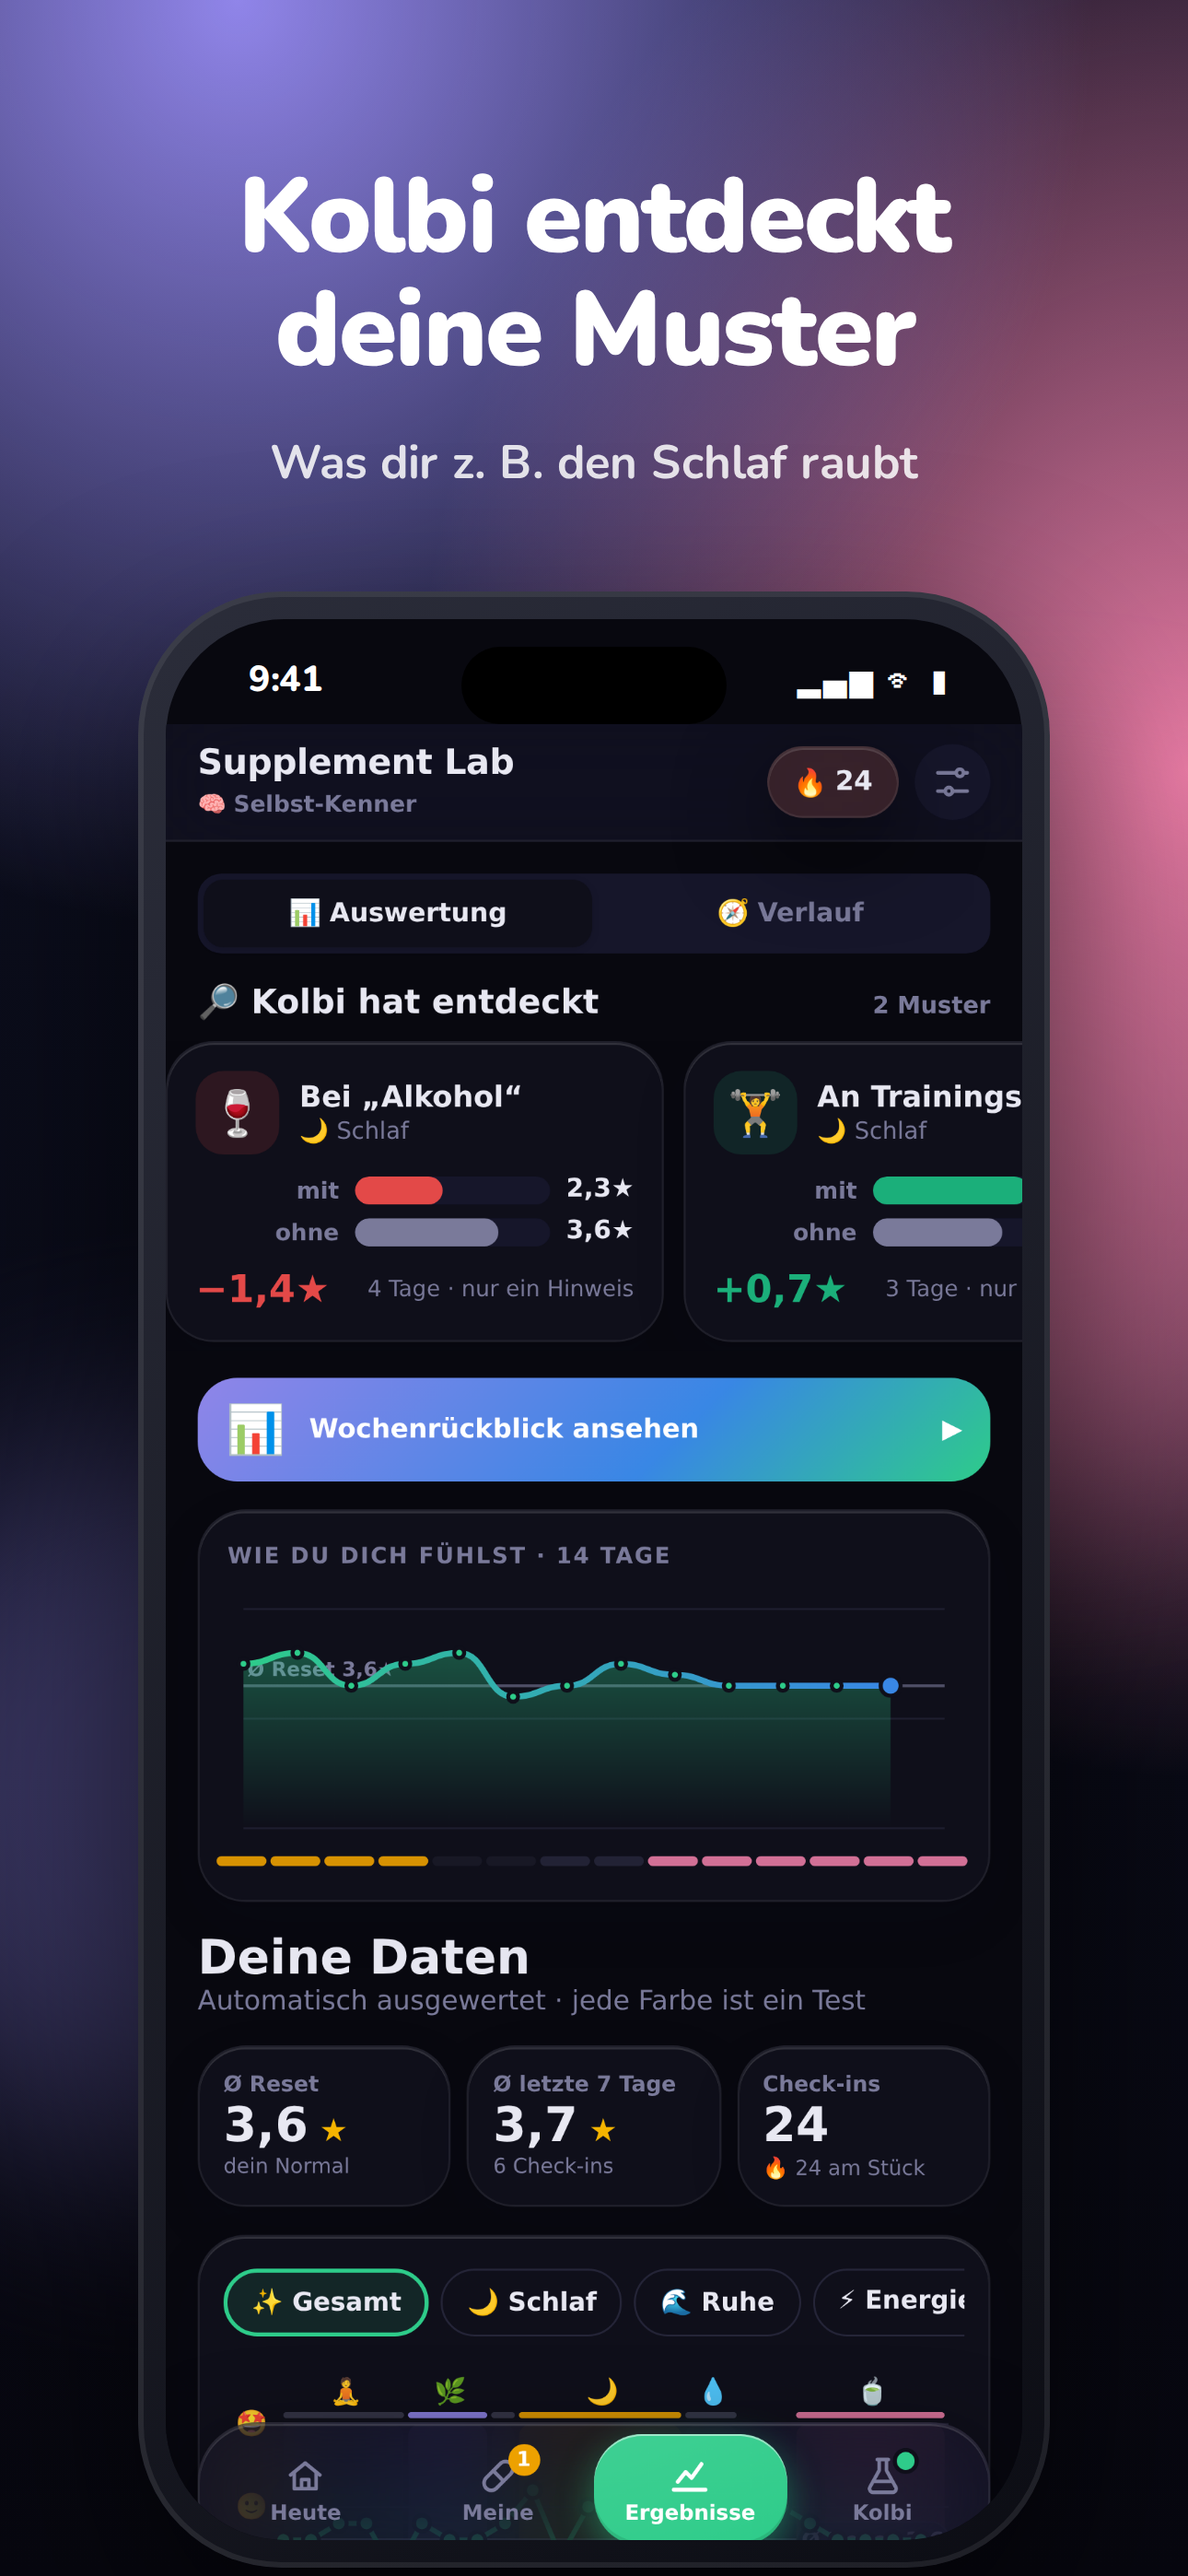
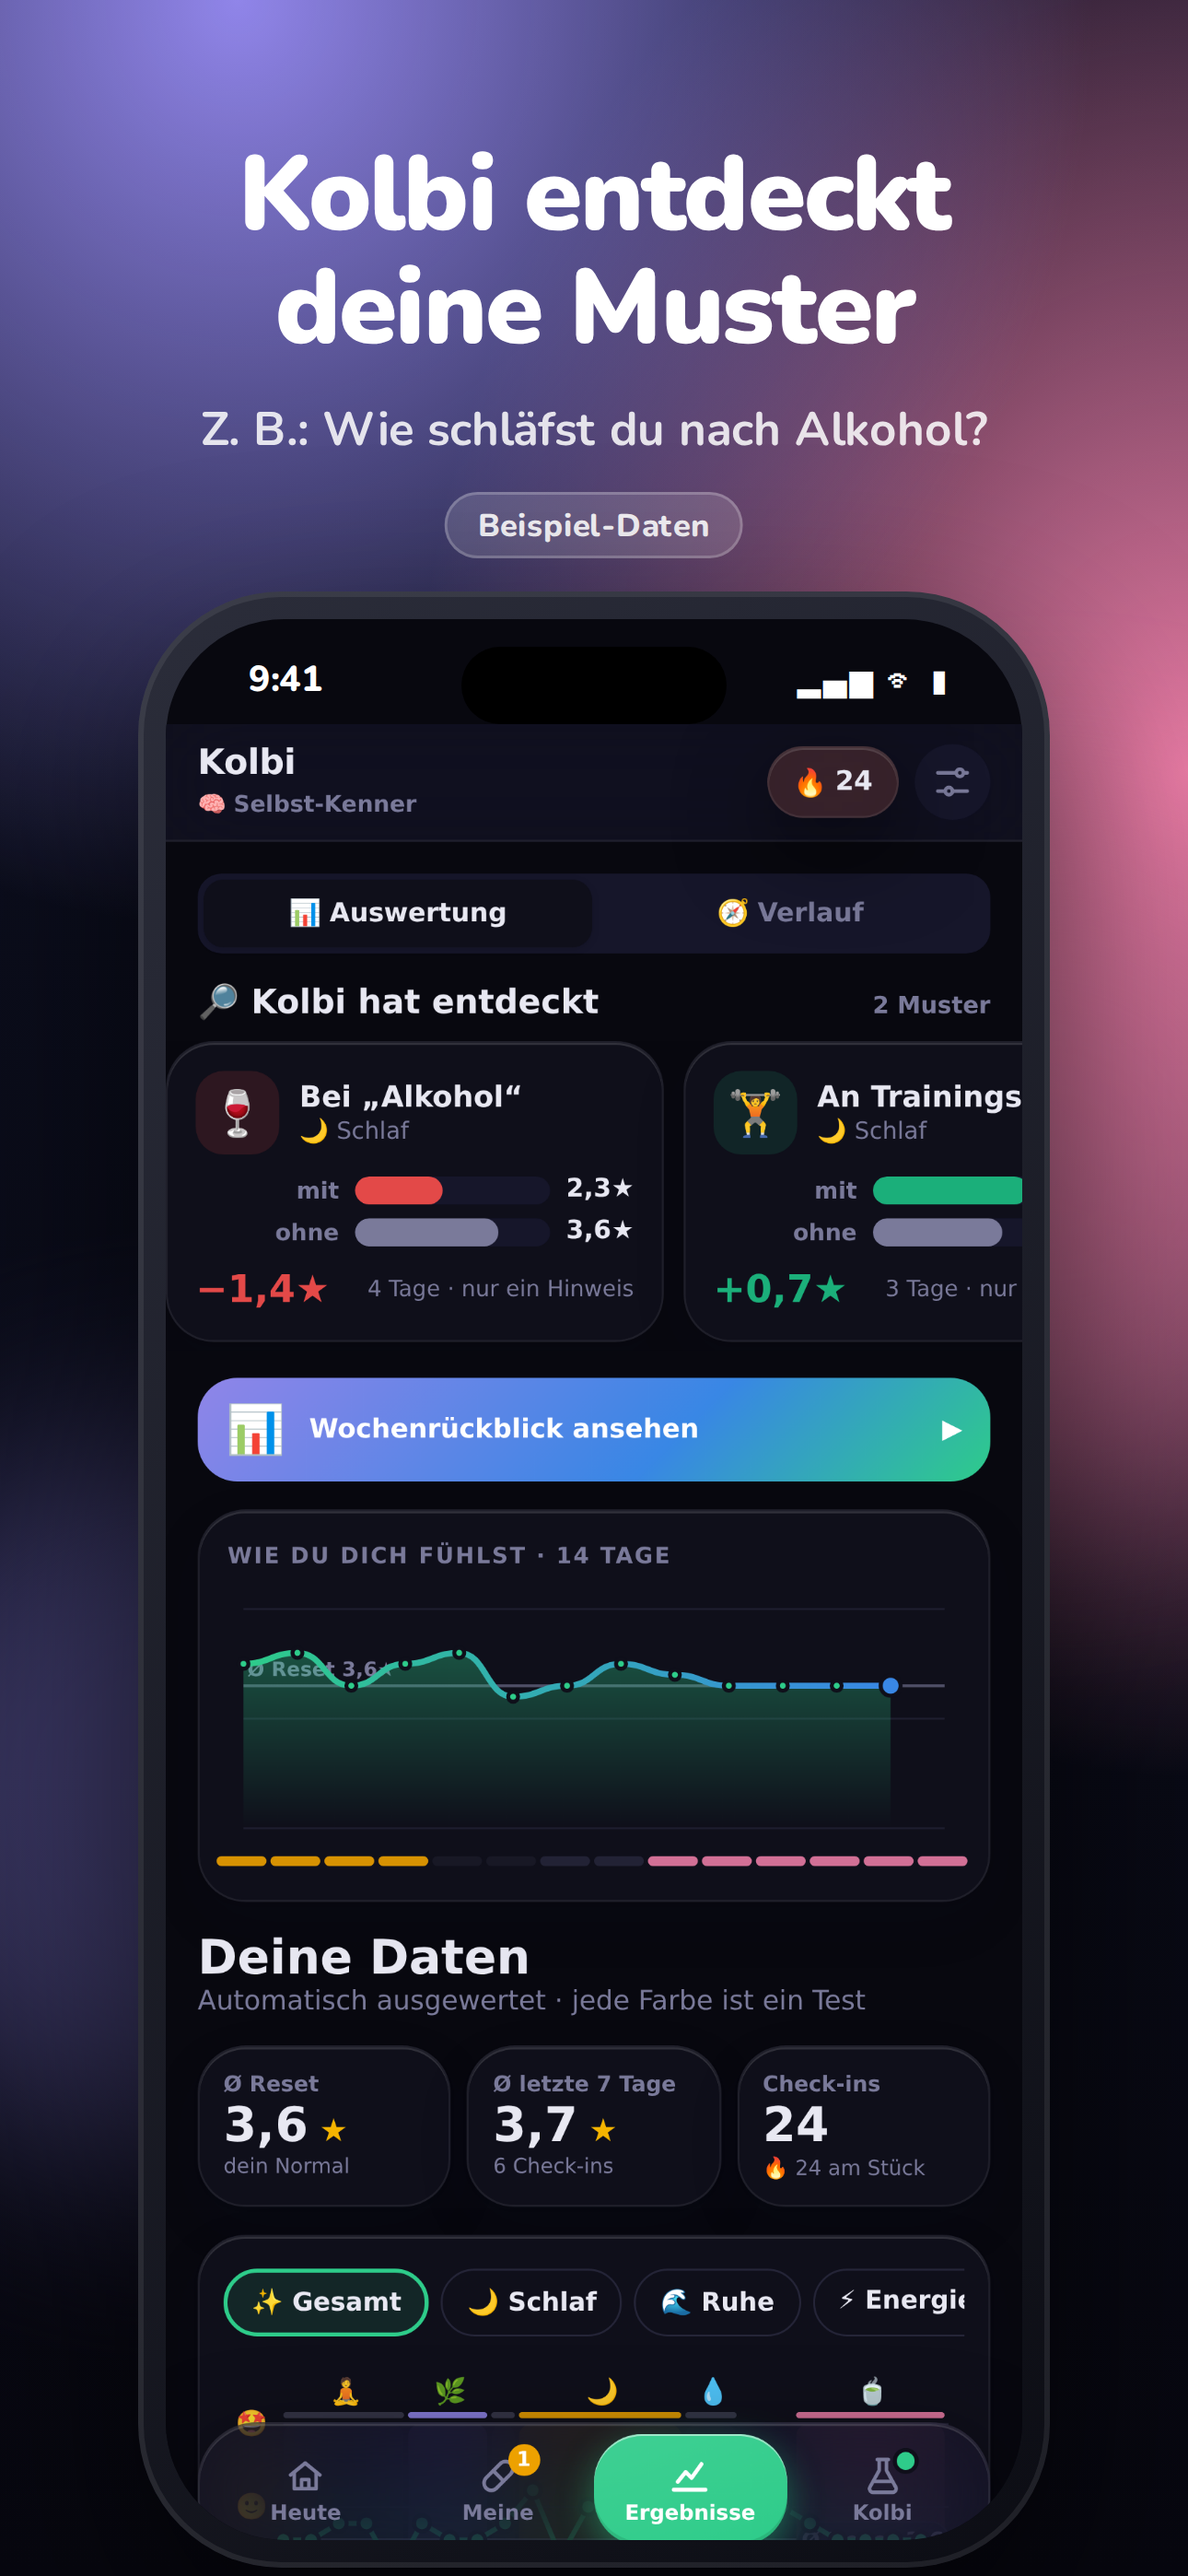
Growth: Store-Screenshots DE/EN neu (7 Bilder, Beispiel-Kennzeichnung, keine erfundenen Community-Zahlen), PH-Galerie, GO-LIVE.md + OWNER/GSC_VERIFY in build-site; Kalender-Wortwahl
Claude-Session: https://claude.ai/code/session_019VQXQ4bYchr77qCbUc7QBr

Changed region(s): [[0.186, 0.0622, 0.8372, 0.2178], [0.155, 0.28, 0.4341, 0.3112], [0.155, 0.1556, 0.186, 0.1867]]

diff --git a/supplement-lab/marketing/site/index.html b/supplement-lab/marketing/site/index.html
@@ -169,12 +169,12 @@ code{background:var(--card);padding:1px 6px;border-radius:6px}
 
 <section class="section shots-sec">
   <div class="wrap"><h2>Ein Blick in die App</h2><p class="sub">Bunt, klar, ohne Zahlensalat – Kolbi zeigt dir nur, was gerade zählt.</p></div>
-  <div class="shots" tabindex="0"><img loading="lazy" src="/img/de-01-1-heute.webp" width="430" height="932" alt="Heute: Kolbi führt dich durch den Tag"><img loading="lazy" src="/img/de-02-3b-checkin.webp" width="430" height="932" alt="Abend-Check-in in einer Minute"><img loading="lazy" src="/img/de-03-4-muster.webp" width="430" height="932" alt="Muster in deinen Daten"><img loading="lazy" src="/img/de-04-5-kosten.webp" width="430" height="932" alt="Was dein Stack kostet"><img loading="lazy" src="/img/de-05-7-experimente.webp" width="430" height="932" alt="Fertige Experimente"><img loading="lazy" src="/img/de-06-9-story.webp" width="430" height="932" alt="Deine Woche als Story"></div>
+  <div class="shots" tabindex="0"><img loading="lazy" src="/img/de-01-1-heute.webp" width="430" height="932" alt="Heute: Kolbi führt dich durch den Tag"><img loading="lazy" src="/img/de-02-3b-checkin.webp" width="430" height="932" alt="Abend-Check-in in einer Minute"><img loading="lazy" src="/img/de-03-4-muster.webp" width="430" height="932" alt="Muster in deinen Daten"><img loading="lazy" src="/img/de-04-5-kosten.webp" width="430" height="932" alt="Was dein Stack kostet"><img loading="lazy" src="/img/de-05-7-experimente.webp" width="430" height="932" alt="Fertige Experimente"><img loading="lazy" src="/img/de-06-9-story.webp" width="430" height="932" alt="Deine Woche als Story"><img loading="lazy" src="/img/de-07-8-kolbi.webp" width="430" height="932" alt="Kolbi, dein Lab-Coach"></div>
 </section>
 
 <section class="wrap section">
   <h2>Was Kolbi für dich macht</h2>
-  <div class="features"><article class="card feat reveal"><span class="emo">🔎</span><h3>Muster-Detektor</h3><p>Schläfst du nach Alkohol schlechter? Bist du montags anders drauf? Kolbi schaut in deinen Daten nach.</p></article><article class="card feat reveal"><span class="emo">⏰</span><h3>Erinnert, ohne zu nerven</h3><p>Gebündelt nach Tageszeit – und Kolbi merkt sich, wann du wirklich einnimmst.</p></article><article class="card feat reveal"><span class="emo">💸</span><h3>Kosten & Sparen</h3><p>Sieh, was dein Stack im Monat kostet und was du sparst, wenn etwas rausfliegt.</p></article><article class="card feat reveal"><span class="emo">🧭</span><h3>Fertige Experimente</h3><p>Schlaf, Fokus, Ruhe, Training: Thema wählen, Kolbi plant den Rest.</p></article><article class="card feat reveal"><span class="emo">⏱</span><h3>Timing-Check</h3><p>Was lieber mit Abstand, was zusammen? Auf einer Tageslinie erklärt.</p></article><article class="card feat reveal"><span class="emo">📦</span><h3>Vorrat im Blick</h3><p>Kolbi sagt dir Bescheid, bevor eine Dose leer ist.</p></article><article class="card feat reveal"><span class="emo">📊</span><h3>Wochen-Story</h3><p>Jeden Sonntag dein Rückblick – zum Durchtippen und Teilen.</p></article><article class="card feat reveal"><span class="emo">📅</span><h3>Kalender-Abo</h3><p>Testende und Ergebnisse automatisch in deinem Kalender.</p></article></div>
+  <div class="features"><article class="card feat reveal"><span class="emo">🔎</span><h3>Muster-Detektor</h3><p>Schläfst du nach Alkohol schlechter? Bist du montags anders drauf? Kolbi schaut in deinen Daten nach.</p></article><article class="card feat reveal"><span class="emo">⏰</span><h3>Erinnert, ohne zu nerven</h3><p>Gebündelt nach Tageszeit – und Kolbi merkt sich, wann du wirklich einnimmst.</p></article><article class="card feat reveal"><span class="emo">💸</span><h3>Kosten & Sparen</h3><p>Sieh, was dein Stack im Monat kostet und was du sparst, wenn du etwas weglässt.</p></article><article class="card feat reveal"><span class="emo">🧭</span><h3>Fertige Experimente</h3><p>Schlaf, Fokus, Ruhe, Training: Thema wählen, Kolbi plant den Rest.</p></article><article class="card feat reveal"><span class="emo">⏱</span><h3>Timing-Check</h3><p>Was lieber mit Abstand, was zusammen? Auf einer Tageslinie erklärt.</p></article><article class="card feat reveal"><span class="emo">📦</span><h3>Vorrat im Blick</h3><p>Kolbi sagt dir Bescheid, bevor eine Dose leer ist.</p></article><article class="card feat reveal"><span class="emo">📊</span><h3>Wochen-Story</h3><p>Jeden Sonntag dein Rückblick – zum Durchtippen und Teilen.</p></article><article class="card feat reveal"><span class="emo">📅</span><h3>Kalender-Abo</h3><p>Testende und Ergebnisse automatisch in deinem Kalender.</p></article></div>
 </section>
 
 <section class="wrap section">

diff --git a/supplement-lab/marketing/site/en.html b/supplement-lab/marketing/site/en.html
@@ -169,7 +169,7 @@ code{background:var(--card);padding:1px 6px;border-radius:6px}
 
 <section class="section shots-sec">
   <div class="wrap"><h2>A look inside</h2><p class="sub">Colorful, clear, no number soup – Kolbi only shows what matters right now.</p></div>
-  <div class="shots" tabindex="0"><img loading="lazy" src="/img/en-01-1-heute.webp" width="430" height="932" alt="Today: Kolbi guides you through your day"><img loading="lazy" src="/img/en-02-3b-checkin.webp" width="430" height="932" alt="One-minute evening check-in"><img loading="lazy" src="/img/en-03-4-muster.webp" width="430" height="932" alt="Patterns in your data"><img loading="lazy" src="/img/en-04-5-kosten.webp" width="430" height="932" alt="What your stack costs"><img loading="lazy" src="/img/en-05-7-experimente.webp" width="430" height="932" alt="Ready-made experiments"><img loading="lazy" src="/img/en-06-9-story.webp" width="430" height="932" alt="Your week as a story"></div>
+  <div class="shots" tabindex="0"><img loading="lazy" src="/img/en-01-1-heute.webp" width="430" height="932" alt="Today: Kolbi guides you through your day"><img loading="lazy" src="/img/en-02-3b-checkin.webp" width="430" height="932" alt="One-minute evening check-in"><img loading="lazy" src="/img/en-03-4-muster.webp" width="430" height="932" alt="Patterns in your data"><img loading="lazy" src="/img/en-04-5-kosten.webp" width="430" height="932" alt="What your stack costs"><img loading="lazy" src="/img/en-05-7-experimente.webp" width="430" height="932" alt="Ready-made experiments"><img loading="lazy" src="/img/en-06-9-story.webp" width="430" height="932" alt="Your week as a story"><img loading="lazy" src="/img/en-07-8-kolbi.webp" width="430" height="932" alt="Kolbi, your lab coach"></div>
 </section>
 
 <section class="wrap section">

diff --git a/supplement-lab/marketing/launch/GO-LIVE.md b/supplement-lab/marketing/launch/GO-LIVE.md
@@ -1,0 +1,66 @@
+# Go-Live bei Google (kolbi-smoky.vercel.app)
+
+Stand 2. Okt 2026 · Ziel: Sobald der Inhaber seine Impressum-Daten liefert, wird die Seite mit **einem** Schritt
+indexierbar. Bis dahin bleibt sie absichtlich auf `noindex` (Entwurf).
+
+## Wie „Entwurf“ heute entsteht
+
+`tools/build-site.mjs` setzt `DRAFT = true`, solange in **irgendeinem** Rechtstext (DE `legal/*.md` **oder** EN
+`legal/en/*.md`) noch ein Platzhalter steht: `[Vorname Nachname]`, `[Straße Hausnummer]`, `[PLZ Ort]`,
+`[E-Mail-Adresse]`. Bei `DRAFT` gilt:
+
+- jede Seite bekommt `<meta name="robots" content="noindex, nofollow">`
+- `site/robots.txt` = `Disallow: /`
+- `site/vercel.json` bekommt den Header `X-Robots-Tag: noindex, nofollow`
+
+## Schritt für Schritt
+
+**(a) Daten eintragen – eine Datei, vier Felder.** In `marketing/tools/build-site.mjs` ganz oben:
+
+```js
+const OWNER = { "Vorname Nachname": "", "Straße Hausnummer": "", "PLZ Ort": "", "E-Mail-Adresse": "" }
+```
+
+Alle vier ausfüllen (ladungsfähige Anschrift, kein Postfach). Beim Bauen werden damit **alle** Platzhalter in
+Impressum, Datenschutz (DE + EN), Imprint und Pressemappe ersetzt und die Ausfüll-Hinweise entfernt. Die
+Markdown-Dateien in `legal/` bleiben unverändert. Fehlt ein Feld, bleibt alles Entwurf (Meldung „OWNER unvollständig“).
+
+**(b) Bauen** (im Ordner `supplement-lab/marketing`):
+
+```bash
+node tools/build-site.mjs        # Ausgabe ohne „(Entwurf …)“ = indexierbar
+```
+
+Kurz prüfen: `grep -rl noindex site` → nichts · `cat site/robots.txt` → `Allow: /` + `Sitemap:` ·
+`grep -rn "\[E-Mail-Adresse\]" site` → nichts.
+
+**(c) Deploy (CEO):** Der Deploy-Aufruf des CEO enthält eine **eigene, inline geschriebene `vercel.json`** mit
+`X-Robots-Tag: noindex, nofollow`. Die steht **nicht** im Repo. Diesen Header beim Go-Live-Deploy **entfernen**
+(am besten einfach `site/vercel.json` aus dem Build verwenden). Sonst bleibt Google ausgesperrt, egal was in den
+Seiten steht. Nach dem Deploy prüfen: `curl -sI https://kolbi-smoky.vercel.app | grep -i x-robots` → keine Zeile.
+
+**(d) robots.txt + sitemap.xml:** werden automatisch erzeugt. Ohne Entwurf:
+`User-agent: * / Allow: / / Sitemap: https://kolbi-smoky.vercel.app/sitemap.xml`, **kein** `Disallow`.
+Die Sitemap enthält alle 46 Seiten (DE + EN, Selbsttests, Rechner, Vorlage, Presse, Rechtsseiten).
+Live prüfen: `/robots.txt` und `/sitemap.xml` im Browser öffnen.
+
+**(e) Google Search Console (Inhaber, mit eigenem Google-Konto):**
+
+1. search.google.com/search-console → **Property hinzufügen** → **URL-Präfix** wählen (eine *Domain*-Property
+   geht bei `*.vercel.app` nicht, dafür bräuchte man DNS-Zugriff) → `https://kolbi-smoky.vercel.app/` eintragen.
+2. Bestätigungsmethode **HTML-Tag** wählen. Google zeigt
+   `<meta name="google-site-verification" content="AbC123…">`. **Nur den `content`-Wert** an den CEO schicken.
+3. CEO trägt ihn in `build-site.mjs` ein: `const GSC_VERIFY = "AbC123…"` → neu bauen → deployen.
+   (Leer = kein Tag, die Ausgabe bleibt dann byte-gleich.) Der Tag landet in **allen** Seiten.
+4. In der Search Console auf **Bestätigen** klicken. Den Tag danach drin lassen (sonst verfällt die Bestätigung).
+
+**(f) Sitemap einreichen:** Search Console → **Sitemaps** → `sitemap.xml` eingeben → **Senden**. Dann unter
+**URL-Prüfung** die Startseite `/` und `/en` eingeben → **Indexierung beantragen**. Erste Einträge dauern meist
+einige Tage bis wenige Wochen.
+
+## Vorher entscheiden (nicht technisch)
+
+- Datenschutz und Nutzungsbedingungen tragen oben noch den Hinweis **„ENTWURF – vor Veröffentlichung von einer
+  Fachperson prüfen lassen“** (DE + EN). Der wird nicht automatisch entfernt. Prüfen lassen, dann die Zeile in
+  `legal/*.md` löschen (Rechtstexte: CEO).
+- Die Impressum-Daten sind danach öffentlich und im Git-Verlauf. Das ist beim Impressum Pflicht, aber gut zu wissen.

diff --git a/supplement-lab/marketing/store/listing.md b/supplement-lab/marketing/store/listing.md
@@ -36,9 +36,9 @@ Kolbi schaut in deine Daten und zeigt dir Muster, die dir sonst nicht auffallen 
 Einnahmen werden nach Tageszeit gebündelt. Kolbi merkt sich, wann du wirklich einnimmst, und
 passt die Erinnerungen an. Vergessen? Am nächsten Morgen kannst du nachtragen.
 
-💸 SPAR DIR, WAS NICHTS BRINGT
+💸 SPAR DIR, WAS DIR NICHTS BRINGT
 Trag den Preis ein und sieh, was dein Stack pro Monat kostet – und wie viel du sparst, wenn
-etwas rausfliegt. Kolbi sagt dir außerdem, bevor eine Dose leer ist.
+du etwas weglässt. Kolbi sagt dir außerdem, bevor eine Dose leer ist.
 
 🧭 FERTIGE EXPERIMENTE
 Schlaf, Fokus, Ruhe, Training, Basis oder Bauch: Wähle ein Thema, Kolbi plant Reihenfolge und Dauer.
@@ -135,13 +135,20 @@ ready-made experiments and your weekly recap.
 | 1 | Finde raus, was bei DIR wirkt | Find out what works for YOU | `01-1-heute.png` |
 | 2 | 1 Minute am Abend | 1 minute each evening | `02-3b-checkin.png` |
 | 3 | Kolbi entdeckt deine Muster | Kolbi spots your patterns | `03-4-muster.png` |
-| 4 | Spar dir, was nichts bringt | Stop paying for what doesn't work | `04-5-kosten.png` |
+| 4 | Spar dir, was dir nichts bringt | Skip what doesn't work for you | `04-5-kosten.png` |
 | 5 | Fertige Experimente | Ready-made experiments | `05-7-experimente.png` |
 | 6 | Deine Woche als Story | Your week as a story | `06-9-story.png` |
+| 7 | Kolbi, dein Lab-Coach | Kolbi, your lab coach | `07-8-kolbi.png` |
 
-Neu erzeugen: `node tools/raw-shots.mjs <rohordner>` (Vorschau-Server auf :4173), dann
-`node tools/compose.mjs <rohordner> store/screenshots-de de` bzw. `… en`.
-Community- und Kolbi-Tab sind absichtlich **nicht** dabei (dort stünden Beispielzahlen).
+Alle Bilder mit Demo-Zahlen tragen sichtbar **„Beispiel-Daten“ / “Example data“** (nur Bild 5 „Experimente“ hat keine).
+Community-Zahlen werden nicht gezeigt (die Übersicht wird beim Aufnehmen absichtlich nicht beantwortet).
+
+Neu erzeugen (Stand 2. Okt 2026):
+1. `cd supplement-lab && npx vite build && npx vite preview --port 4175` (eigener Server, danach beenden)
+2. `node marketing/tools/raw-shots.mjs http://localhost:4175/ <roh-de> dark de` und `… <roh-en> dark en`
+3. im Ordner `marketing`: `node tools/compose.mjs <roh-de> store/screenshots-de de` bzw. `<roh-en> store/screenshots-en en`
+   (meldet „⚠ Text zu breit“, falls eine Zeile nicht passt)
+4. Product-Hunt-Galerie: `node tools/ph-assets.mjs <roh-en> --gallery-only`
 
 > ✅ Die App ist zweisprachig (Deutsch/Englisch, automatisch nach Gerätesprache, umschaltbar in den Einstellungen).
 > Englische Screenshots zeigen die englische Oberfläche.

diff --git a/supplement-lab/marketing/content/calendar-30.md b/supplement-lab/marketing/content/calendar-30.md
@@ -217,7 +217,7 @@ Krankheiten, Beispielzahlen = „Beispiel“. In **[eckigen Klammern]** = echte 
 ### Tag 22 · Mo 26.10. · Repost · neuer Hook (10) ⏳
 - **Plattform:** TikTok · Reels · Shorts
 - **Datei:** `videos/10-behalten-oder-raus.mp4`
-- **Hook (Overlay):** „So entscheidest du, welche Dose rausfliegt ✂“
+- **Hook (Overlay):** „So entscheidest du, welche Dose du weglassen kannst ✂“
 - **Caption:**
   > Behalten 💚 oder raus ✂ – nach jedem Test vergleicht Kolbi mit deinem Normal, du entscheidest. (Werte im Video = Beispiel.) ⏳ Noch 35 Tage Gründer-Pro für immer gratis. Link in Bio
 - **Hashtags:** #supplements #geldsparen #ausmisten #biohacking #nahrungsergänzung #selbstexperiment
@@ -309,7 +309,7 @@ Krankheiten, Beispielzahlen = „Beispiel“. In **[eckigen Klammern]** = echte 
 | 07 Tag 1 vs. 14 | Tag 1 vs. Tag 14 | 14 Abende. Je 1 Minute. 🔥 | Was 14 Check-ins dir zeigen können |
 | 08 Baseline | Was ist eine Baseline? 🤔 | Ohne diesen Schritt ist jeder Selbsttest geraten | Kennst du dein Normal? |
 | 09 POV Schrank | POV: Dein Supplement-Schrank 🫙 | Welches davon merkst du wirklich? 👀 | Wie viele Dosen stehen bei dir? 👇 |
-| 10 Behalten oder raus | Behalten oder raus? 🤔 | So entscheidest du, welche Dose rausfliegt ✂ | Supplement-Ausmisten, aber mit Daten |
+| 10 Behalten oder raus | Behalten oder raus? 🤔 | So entscheidest du, welche Dose du weglassen kannst ✂ | Supplement-Ausmisten, aber mit Daten |
 | 11 1 Minute | 1 Minute am Abend. 🌙 | Dein Abend-Check-in in unter 60 Sekunden ⏱ | Der faulste Weg, Supplements zu testen 😴 |
 | 12 Gründer-Beta | ⏳ Nur bis 30. November | Noch [X] Tage: Pro für immer gratis 🏅 | Gründer:in werden? Nur bis 30.11. |
 
